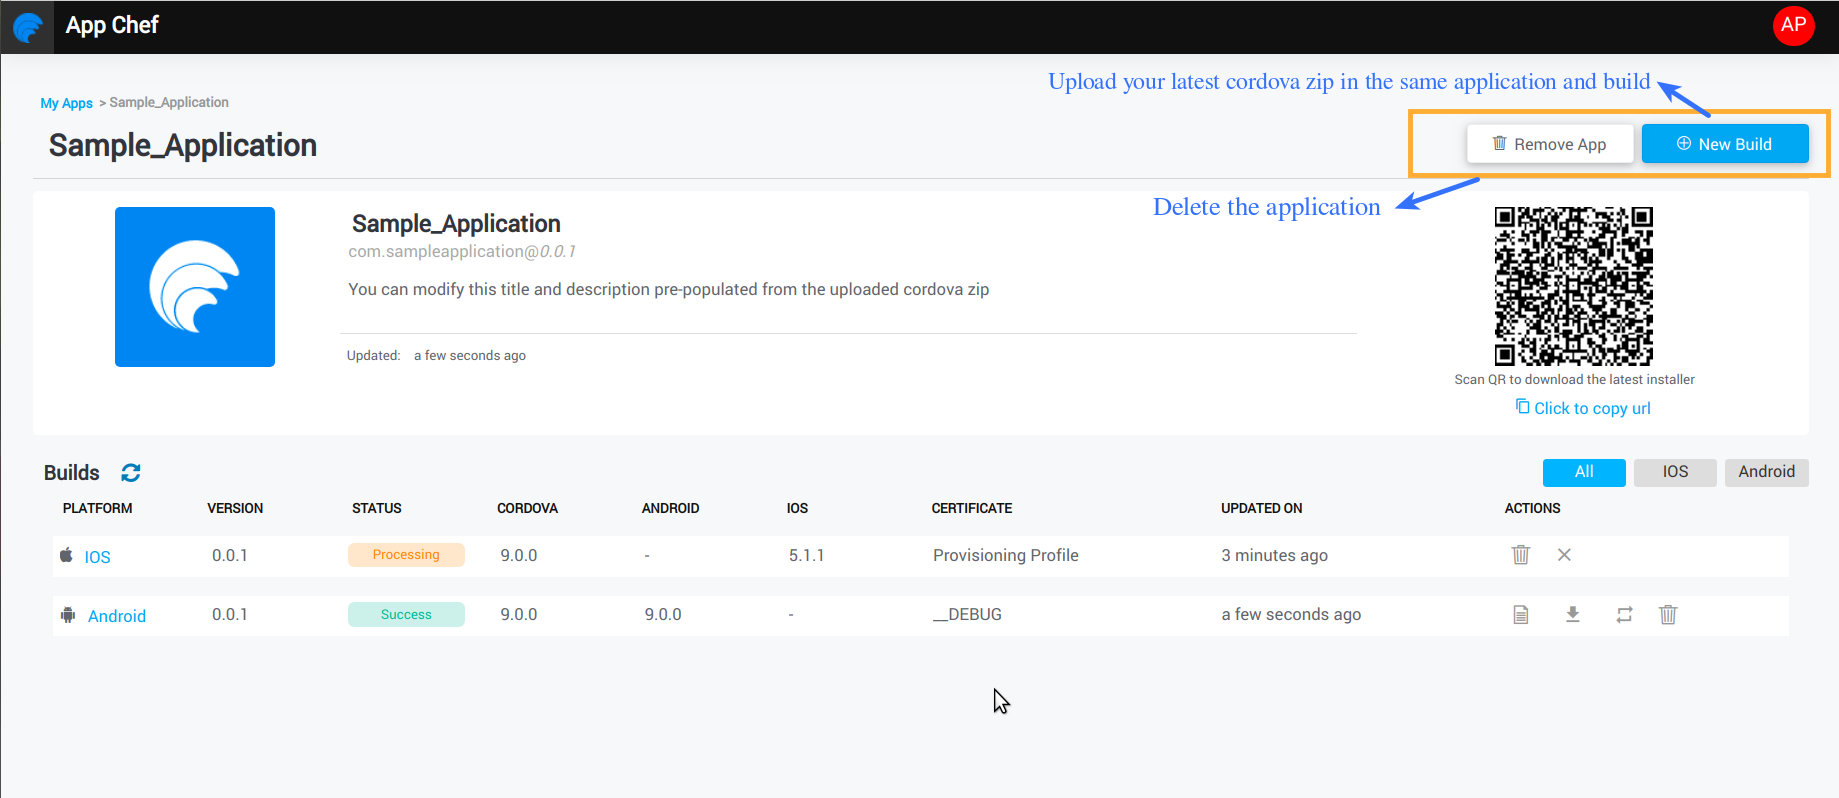
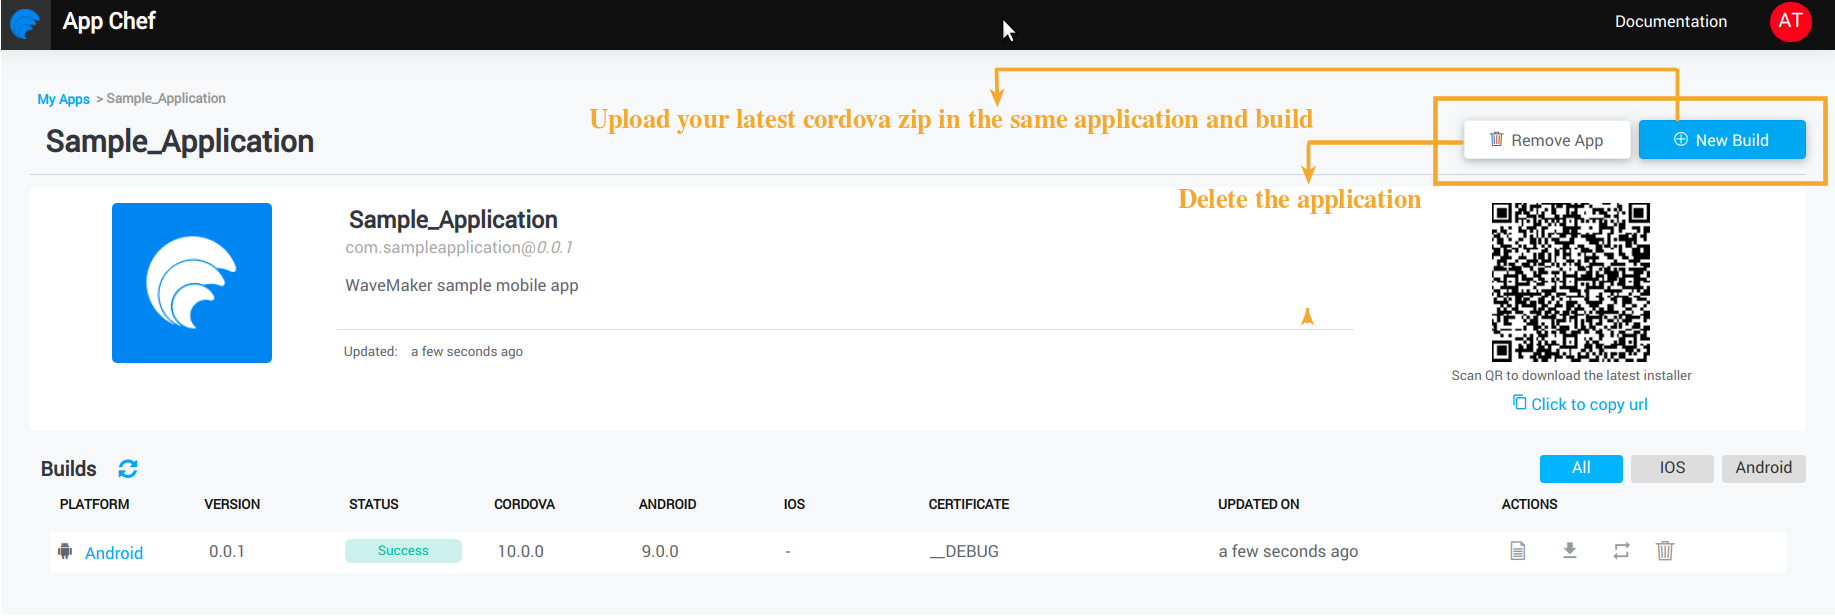
Updated AppChef documentation according to the changes

diff --git a/learn/hybrid-mobile/mobile-build-appchef.md b/learn/hybrid-mobile/mobile-build-appchef.md
@@ -11,12 +11,17 @@ AppChef builds app installers including APK and IPA from a Cordova zip that can 
 To perform a Build using AppChef, you should have the application Cordova zip.
 WaveMaker provides an option to export your mobile application to a Cordova zip. For more information, see [download cordova zip](https://www.wavemaker.com/learn/hybrid-mobile/mobile-build-manual#how-to-export-cordova-zip).
 
-Using the Workspace Toolbar from Build task select **Go to AppChef**. It will navigate you to the AppChef application.
+Using the Workspace Toolbar from Build task select **Open AppChef**. It will navigate you to the AppChef application.
 
+![mobile-build-appchef-studio-option.png](/learn/assets/mobile-build-appchef-studio-option.png)
 
 To login, click **Login with WaveMaker**
 
 ![mobile-build-appchef-login-screen](/learn/assets/mobile-build-appchef-login-screen.png)
+
+If there are no builds, a dialog will be shown to choose between Read documentation or Create new build.
+    
+![mobile-build-appchef-startup-dialog.png](/learn/assets/mobile-build-appchef-startup-dialog.png)
 
 ## Steps to build using AppChef
 
@@ -56,11 +61,16 @@ In this step, you can provide a distribution profile and choose certificates of 
 
 Provide the required options and click Save and Build to start building the application.
 
+:::note
+Uploaded certificates password will be cleared after every 24 hours, you need to provide password whenever prompted. To know more, click [here](#securing-certificates)
+:::
+
+
 ## Manage or Upload Certificates
 
 During the build process, i.e., in the last step of the build, there is an Add icon to upload certificates for Android and iOS . Dialog will be shown specific to store android and iOS certificates.
 
-![mobile-build-appchef-submitted-build-options](/learn/assets/mobile-build-appchef-submitted-build-options.png)
+![mobile-build-appchef-upload-certificate-option](/learn/assets/mobile-build-appchef-upload-certificate-option.png)
 
 These are the options that are shown when you want to add an IOS certificate
 
@@ -70,12 +80,39 @@ These are the options that are shown when you want to add an Android certificate
 
 ![/learn/assets/mobile-build-appchef-upload-android-certificate](/learn/assets/mobile-build-appchef-upload-android-certificate.png)
 
-
-:::note
-You always have an option to check the uploaded certificates and add a new one or delete the existing ones by opening the options from the application menu which is located at the right top corner.
+:::tip
+You always have an option to check the uploaded certificates where you can add a new one, lock or unlock the certificate and delete the existing ones by opening the options from the application menu which is located at the right top corner.
 :::
- 
+
 ![mobile-build-appchef-application-menu](/learn/assets/mobile-build-appchef-application-menu.png)
+
+![mobile-build-appchef-manage-certificates](/learn/assets/mobile-build-appchef-manage-certificates.png)
+
+
+
+### Securing certificates
+
+To secure the uploaded certificates, passwords will be saved in encrypted format. A Certificate with password is in unlocked state and builds can
+ only be triggered with unlocked certificates. Certificates will get automatically locked after 24 hours of unlocking, To unlock the certificate you have to
+  provide password again.
+ 
+A dialog will be shown to unlock certificate in two cases,
+
+1. In configure build step while uploading cordova zip
+ 
+    For iOS, you need to enter certificate password
+
+    ![/learn/assets/mobile-build-appchef-unlock-ios-certificate](/learn/assets/mobile-build-appchef-unlock-ios-certificate.png)
+
+    For android, you need to enter Key password and Store password
+
+    ![/learn/assets/mobile-build-appchef-unlock-android-certificate](/learn/assets/mobile-build-appchef-unlock-android-certificate.png)
+ 
+2. While re-queuing the build in an existing application.
+  
+   ![/learn/assets/mobile-build-appchef-unlock-ios-certificate-in-requeue.png](/learn/assets/mobile-build-appchef-unlock-ios-certificate-in-requeue.png)
+  
+   ![/learn/assets/mobile-build-appchef-unlock-android-certificate-in-requeue.png](/learn/assets/mobile-build-appchef-unlock-android-certificate-in-requeue.png)
 
 
 ## Checking status of the submitted build request
@@ -94,13 +131,14 @@ These are the details that are shown for the submitted application.
 
 ### Application build stages
 
-Application build status has three stages
+Application build status has following stages
 
 1. **Queued** -  Server is waiting for the worker to pick up the job.
 2. **Processing** - Once a worker picks the job, status will be changed to processing.
 3. **Success** - If build is successful from the server, status will be changed to success.
 4. **Failed** - If build is failed from the server, status will be changed to failed.
 5. **Timed-out** - If build time is more, status will be changed to timed-out and it is a failed job.
+6. **Cancelled** - If build is cancelled using cancel option, status will be changed to cancelled.
 
 ### Application Build Actions
 Every build has five actions. i.e.,
@@ -118,7 +156,7 @@ To perform builds for the latest cordova zip of the existing application, you ha
 ![mobile-build-appchef-submitted-build-options](/learn/assets/mobile-build-appchef-submitted-build-options.png)
 
 :::note
-Only the last 10 builds are shown under the Builds section.
+Only the last 10 builds are shown under the Builds section. If build requests exceeds 10, a message will be shown to delete the existing builds.
 :::
 
 After the successful build, you can install the application in Android or iOS devices by scanning the QRcode which is located at the right corner as shown below.
@@ -128,6 +166,3 @@ After the successful build, you can install the application in Android or iOS de
 or, you can click on the platform (IOS, Android) under the build info to scan a particular build QRCode.
 
 ![/learn/assets/mobile-build-appchef-build-specific-qrcode](/learn/assets/mobile-build-appchef-build-specific-qrcode.png)
-
-
-
